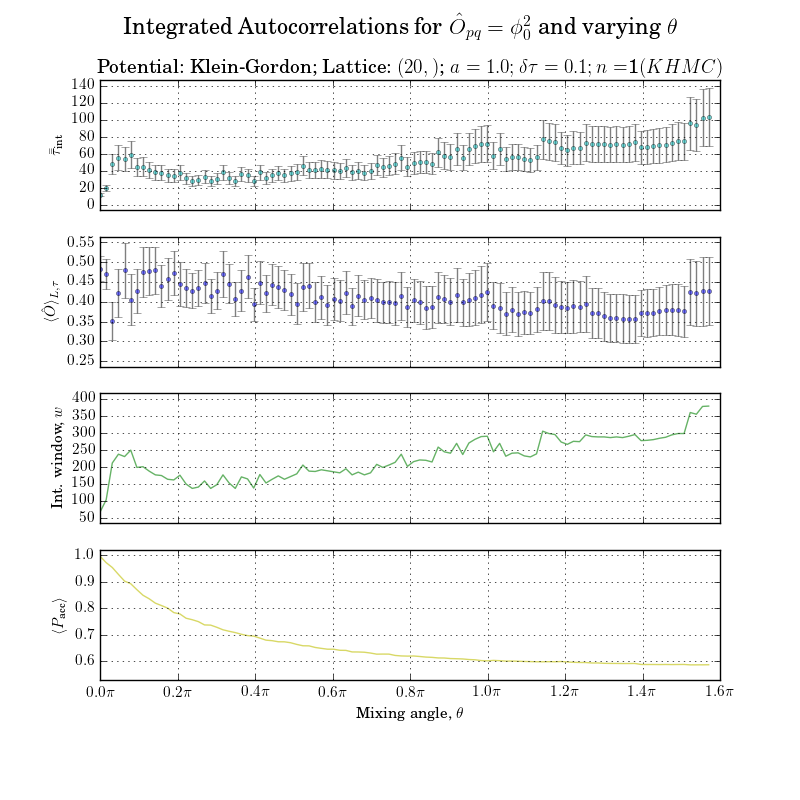
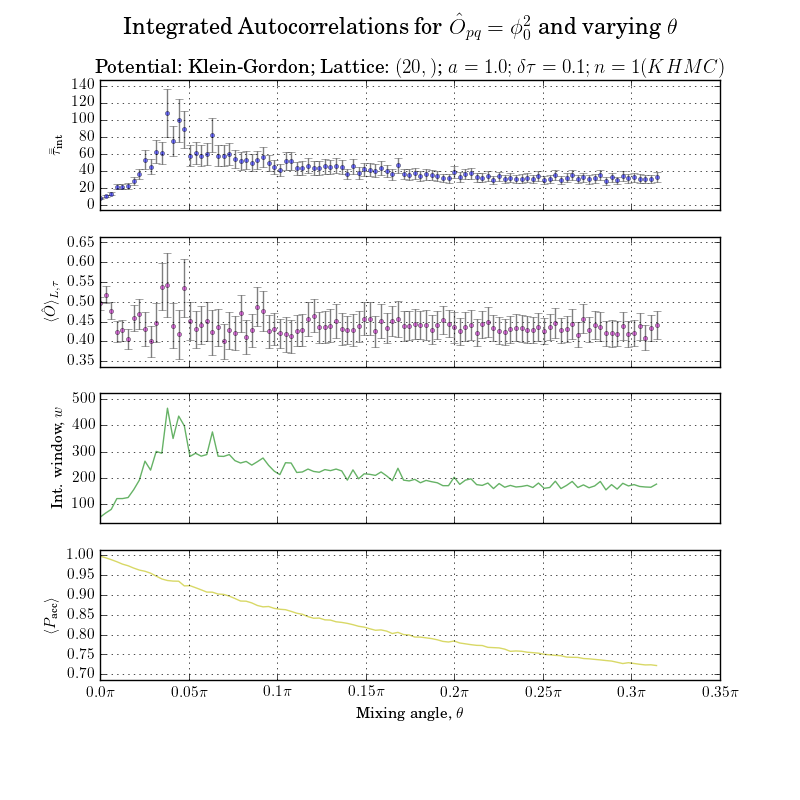
issue:#37 - nice plot achieved
Former-commit-id: 00d20dcf0af6ed8afa153a49531b7c9930fb30b7

diff --git a/results/intac_xx_khmc_kg.py b/results/intac_xx_khmc_kg.py
@@ -10,12 +10,12 @@ pot = KG()
 n, dim = 20, 1
 x0 = np.random.random((n,)*dim)
 spacing    = 1.
+step_size  = .1
 rand_steps = True
+points     = 100
 
-n_samples, n_burn_in = 10000, 20
-step_size =   .1
-
-angle_fracs = np.linspace(0, .5, 100, True)
+n_samples, n_burn_in = 20000, 20
+angle_fracs = np.linspace(0, .1, points, True)
 
 opFn = lambda samples: twoPoint(samples, separation=0)
 op_name = r'$\hat{O}_{pq} = \phi_0^2$'

diff --git a/correlations/errors.py b/correlations/errors.py
@@ -1,7 +1,7 @@
 import numpy as np
 
 from hmc import checks
-from acorr import acorr as getAcorr
+from acorr import acorr as getAcorr, correlatedData
 
 import matplotlib.pyplot as plt
 from matplotlib import colors
